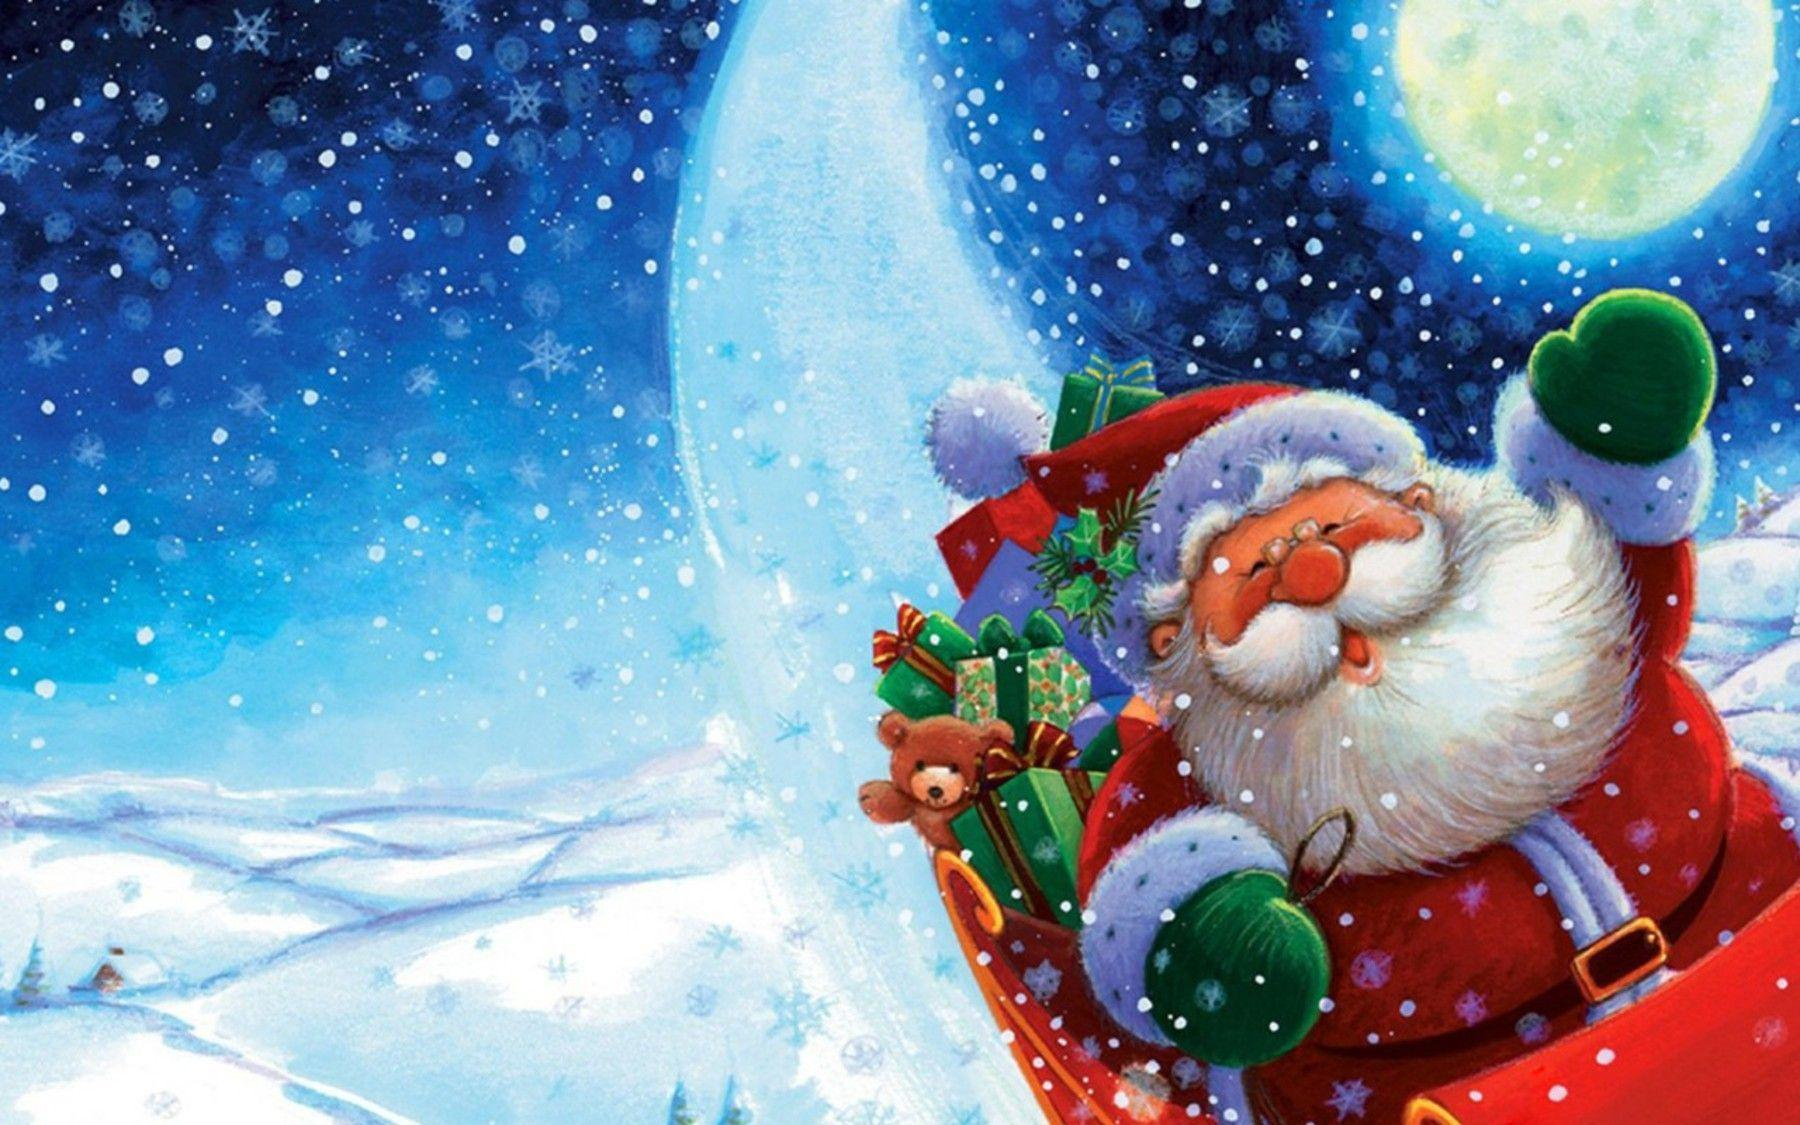
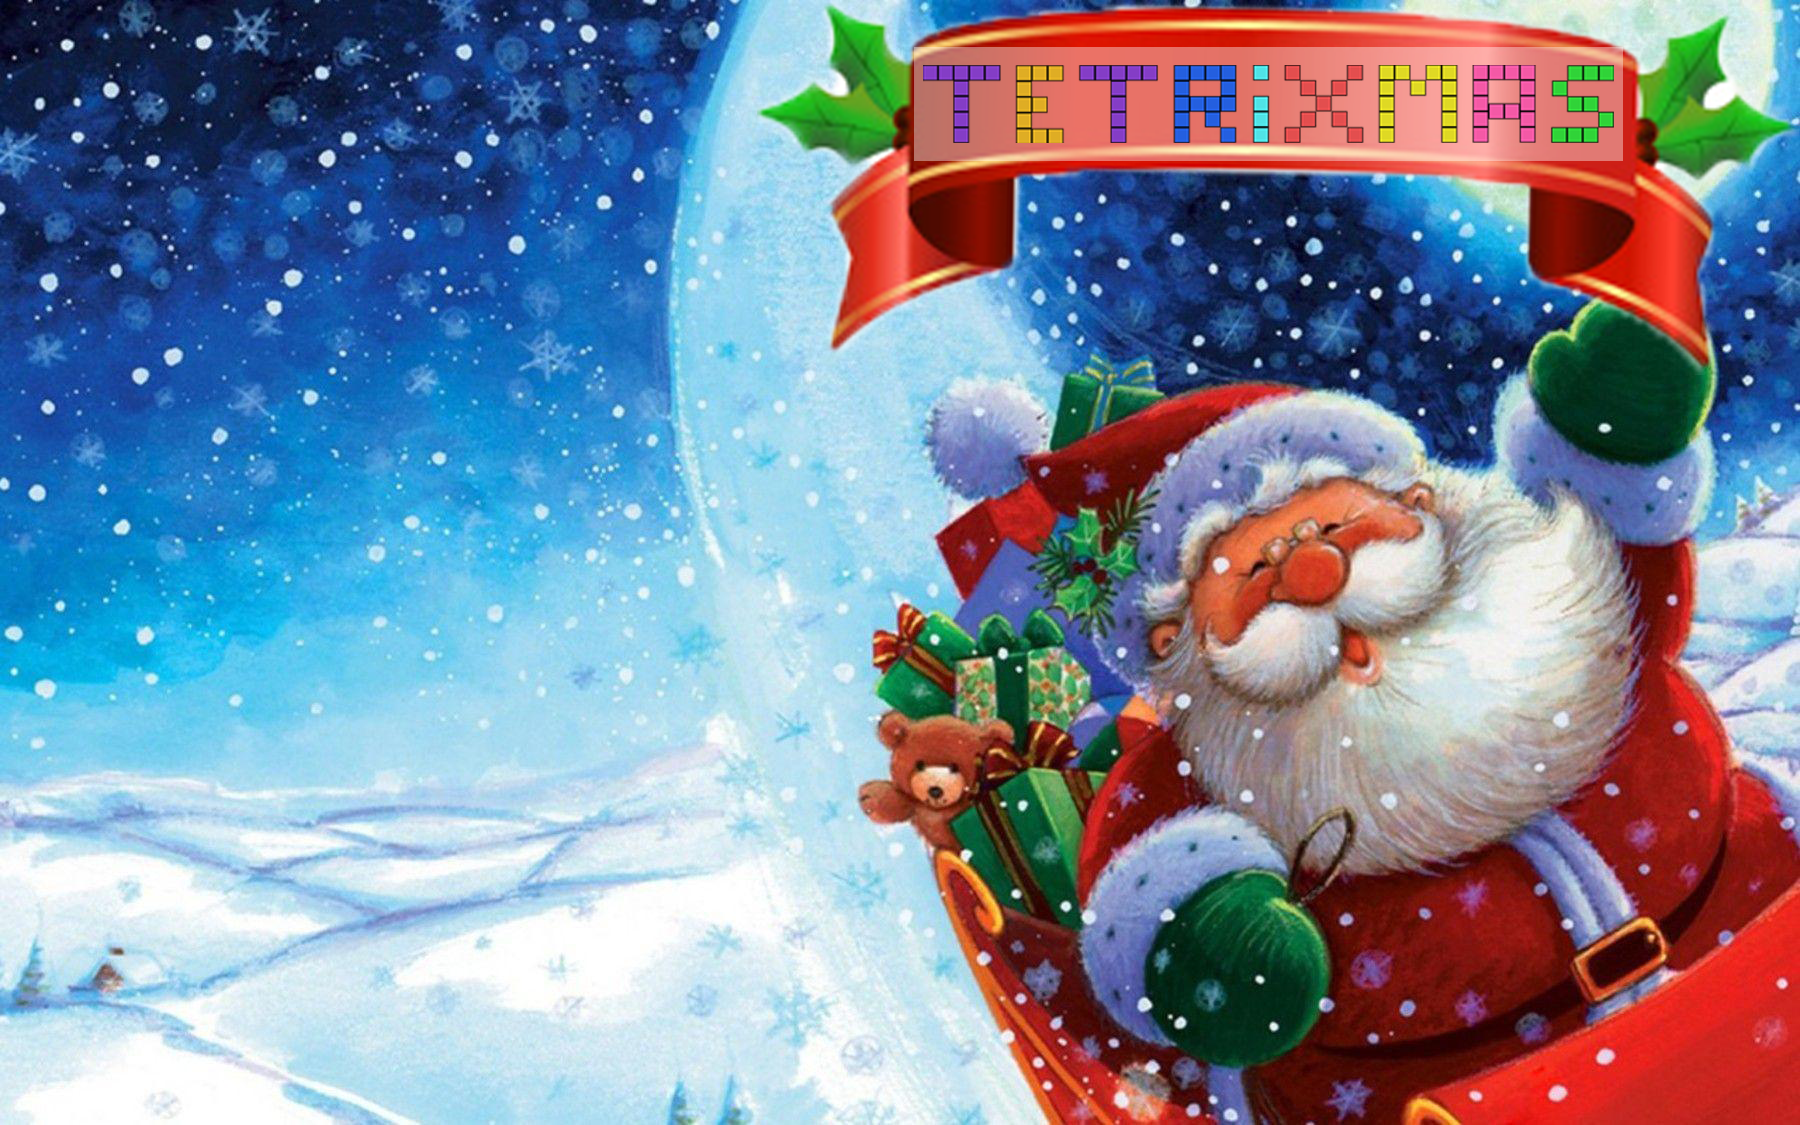
Modification background

Changed region(s): [[0.4044, 0.0, 1.0, 0.3422]]

diff --git a/src/components/styles/StyledTetris.js b/src/components/styles/StyledTetris.js
@@ -13,8 +13,8 @@ export const StyledTetrisWrapper = styled.div`
 export const StyledTetris = styled.div`
   display: flex;
   align-items: flex-start;
-  padding-left: 10vw;
-  padding-top: 7vh
+  padding-left: 3vw;
+  padding-top: 7vh;
   margin: 20 auto;
   max-width: 900px;
 
